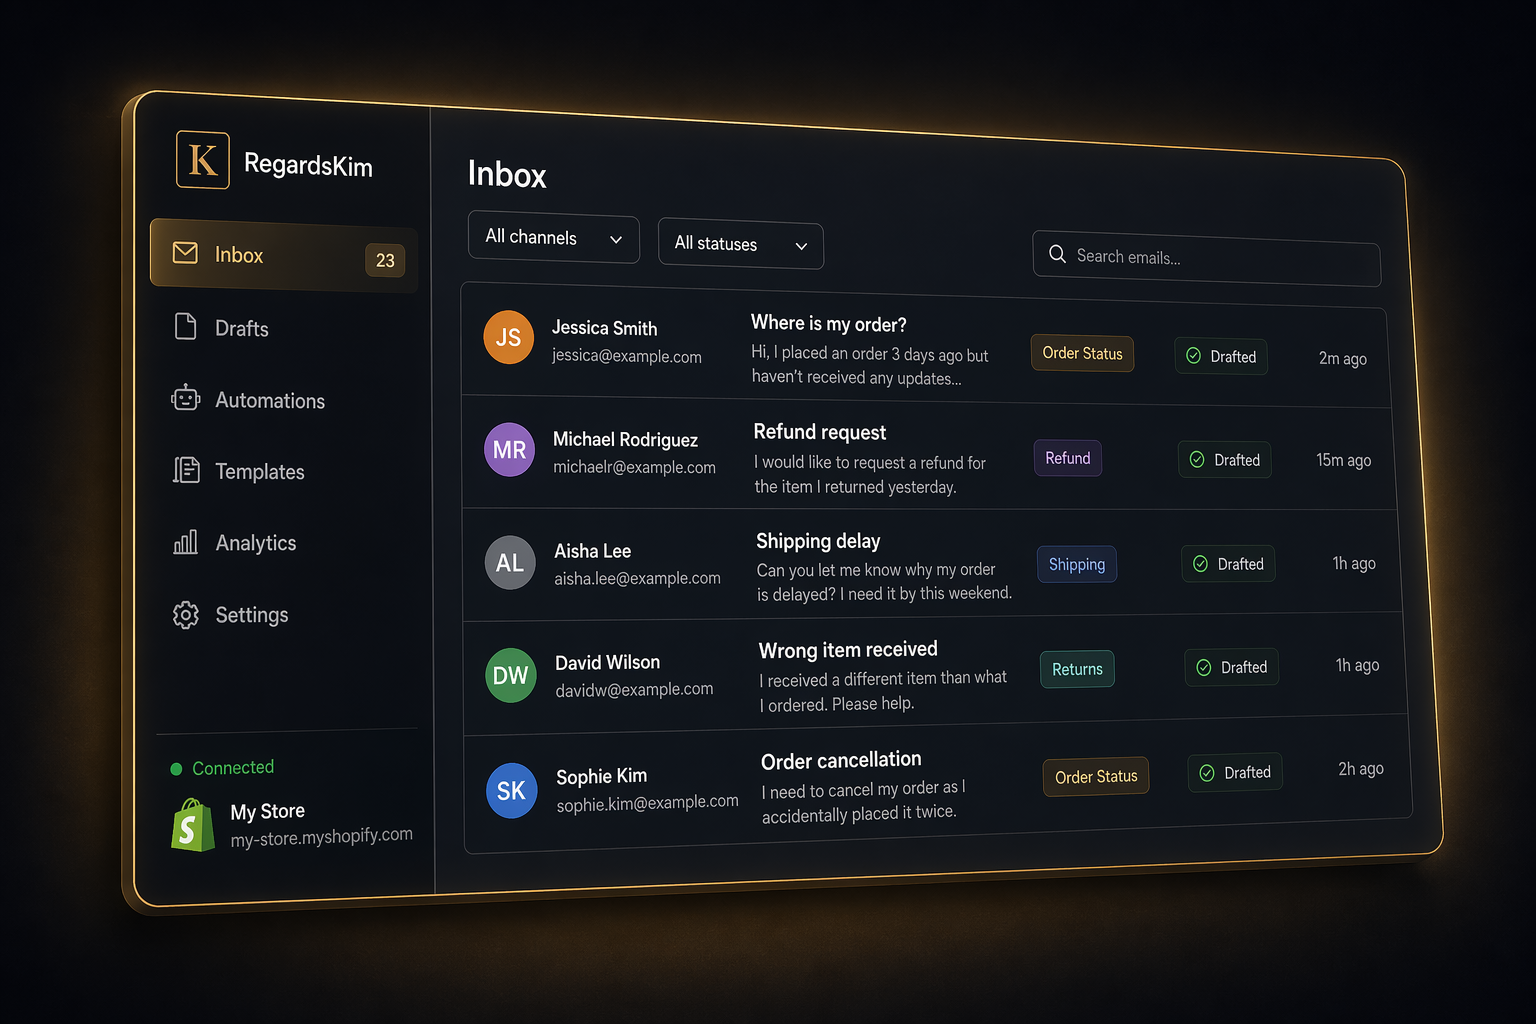
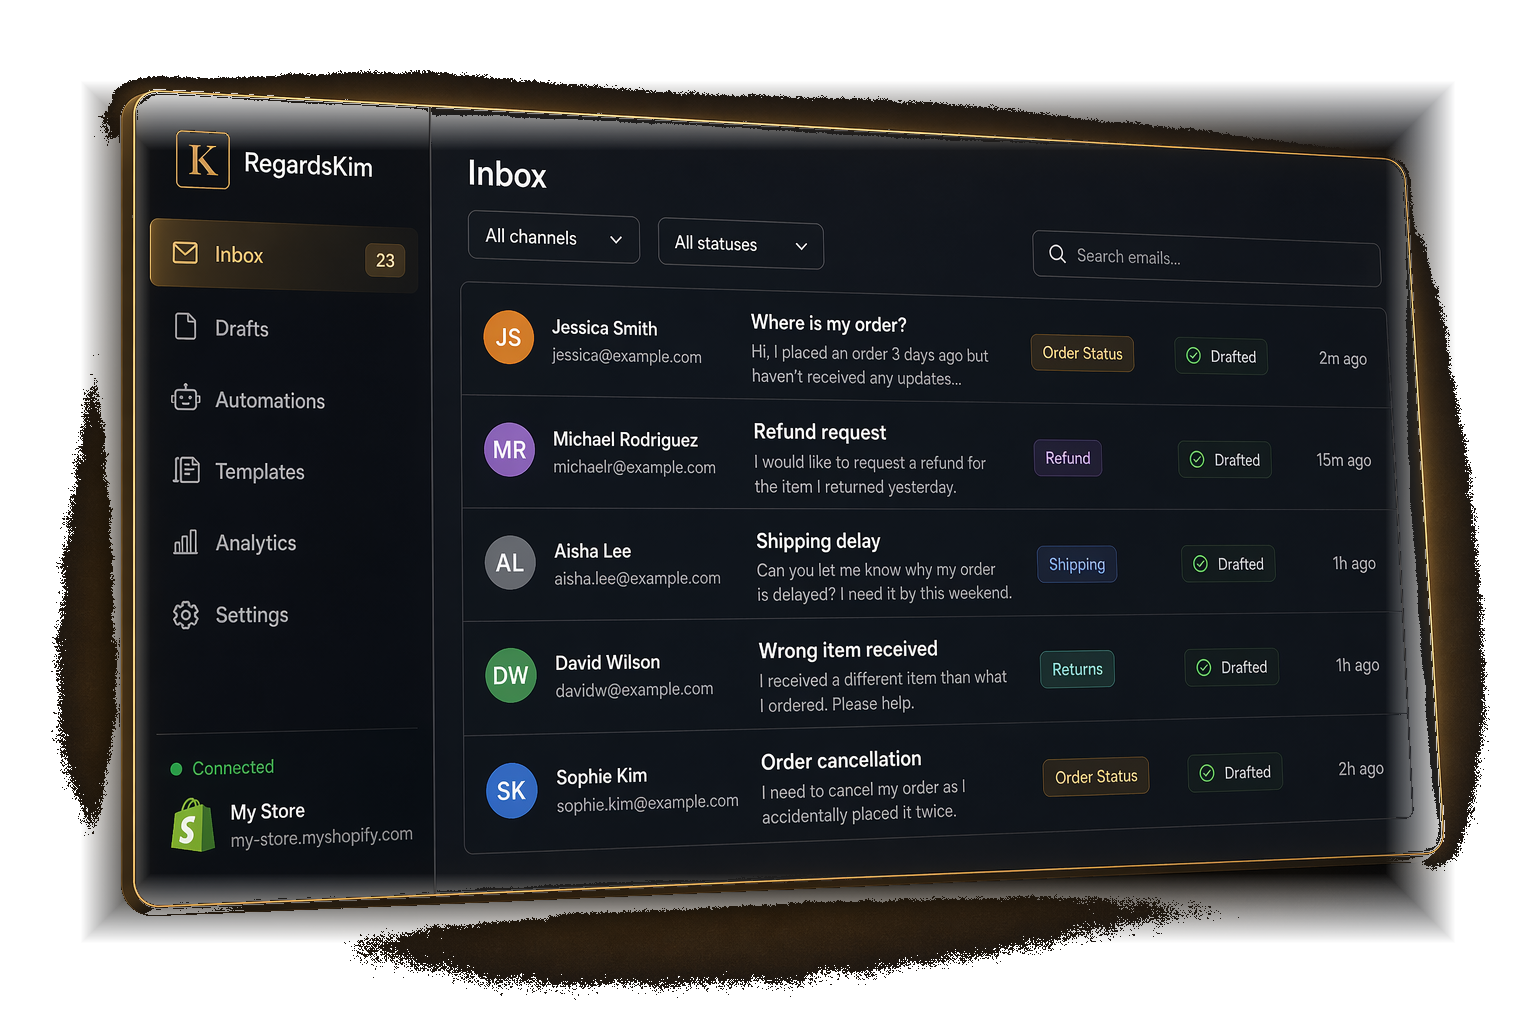
hero: remove baked glow box, add CSS ambient gold glow that blends with bg

diff --git a/src/components/sections/Hero.tsx b/src/components/sections/Hero.tsx
@@ -46,14 +46,18 @@ export default function Hero() {
       <div className="bg-forest">
         <div className="section-shell py-8 md:py-12">
           <FadeIn className="mx-auto max-w-5xl">
-            <Image
-              src="/images/hero-product-mockup.png"
-              alt="RegardsKim inbox showing customer emails sorted and drafted automatically"
-              width={1536}
-              height={1024}
-              className="w-full rounded-2xl"
-              priority
-            />
+            <div className="relative">
+              {/* Gold ambient glow behind the mockup */}
+              <div className="absolute -inset-8 rounded-3xl bg-[#B08D57]/15 blur-3xl" />
+              <Image
+                src="/images/hero-product-mockup.png"
+                alt="RegardsKim inbox showing customer emails sorted and drafted automatically"
+                width={1536}
+                height={1024}
+                className="relative w-full"
+                priority
+              />
+            </div>
           </FadeIn>
         </div>
       </div>
